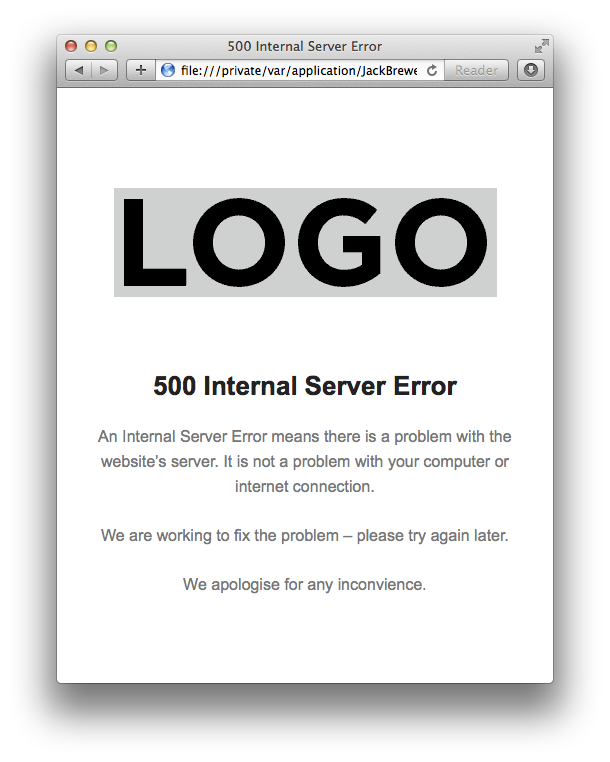
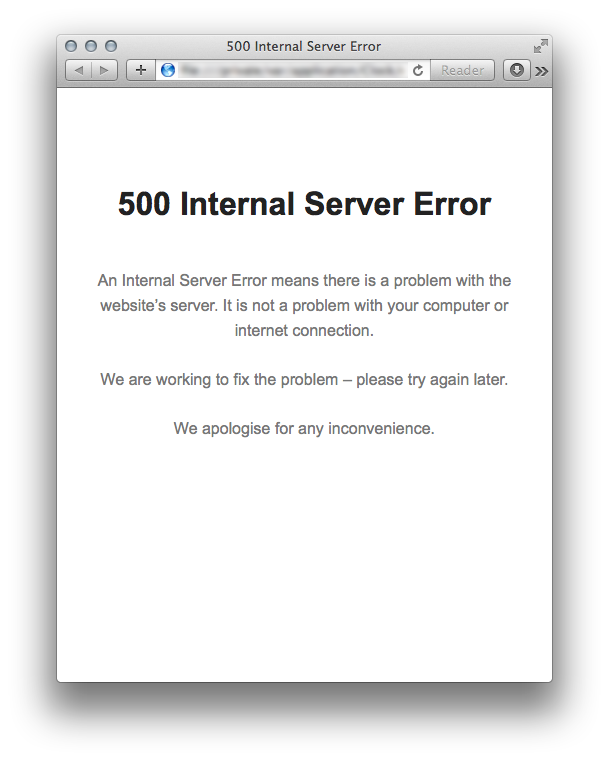
Updated README/screenshot

diff --git a/README.md b/README.md
@@ -2,21 +2,7 @@
 
 A super-simple minimal HTML page, optimised to be used for a static 500 error page or similar.
 
-HTML is pre-minified, minus a couple of line-breaks to allow easier editing. No external assets required – all CSS and images are embedded.
-
-## Usage
-
-Add a custom title element, logo, alt attribute, and optionally amend the text. By default the template is set up to be a 500 page.
-
-### Logo Image
-
-A logo image is included using a base64 data URI. You can add your own logo here using an online data uri conversion tool, or using cli.
-
-To convert an image and save the base64 data to your clipboard, run:
-
-```
-openssl base64 < path/to/image.png | tr -d '\n' | pbcopy
-```
+HTML is pre-minified and no external assets are required – all CSS is embedded.
 
 ## Example
 
